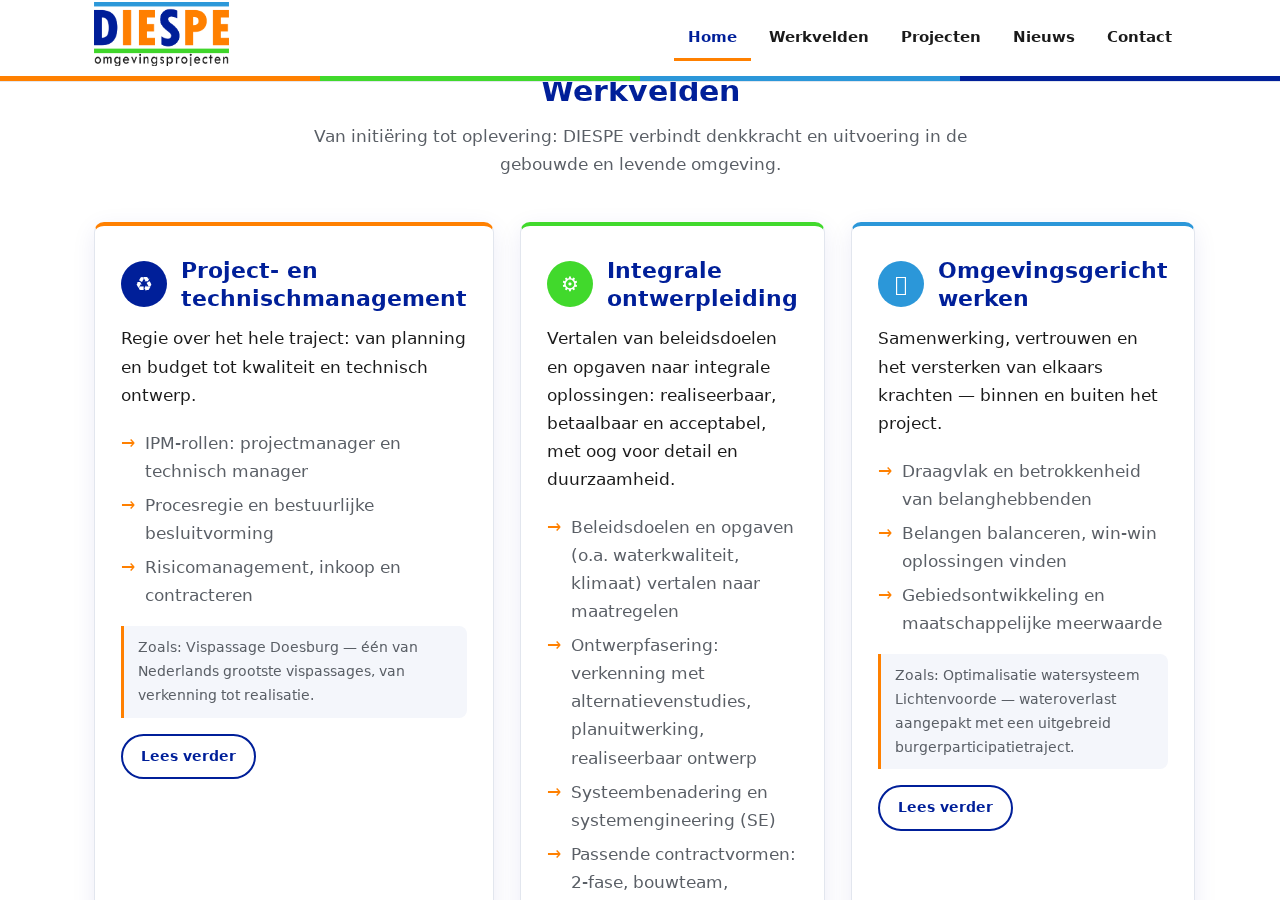
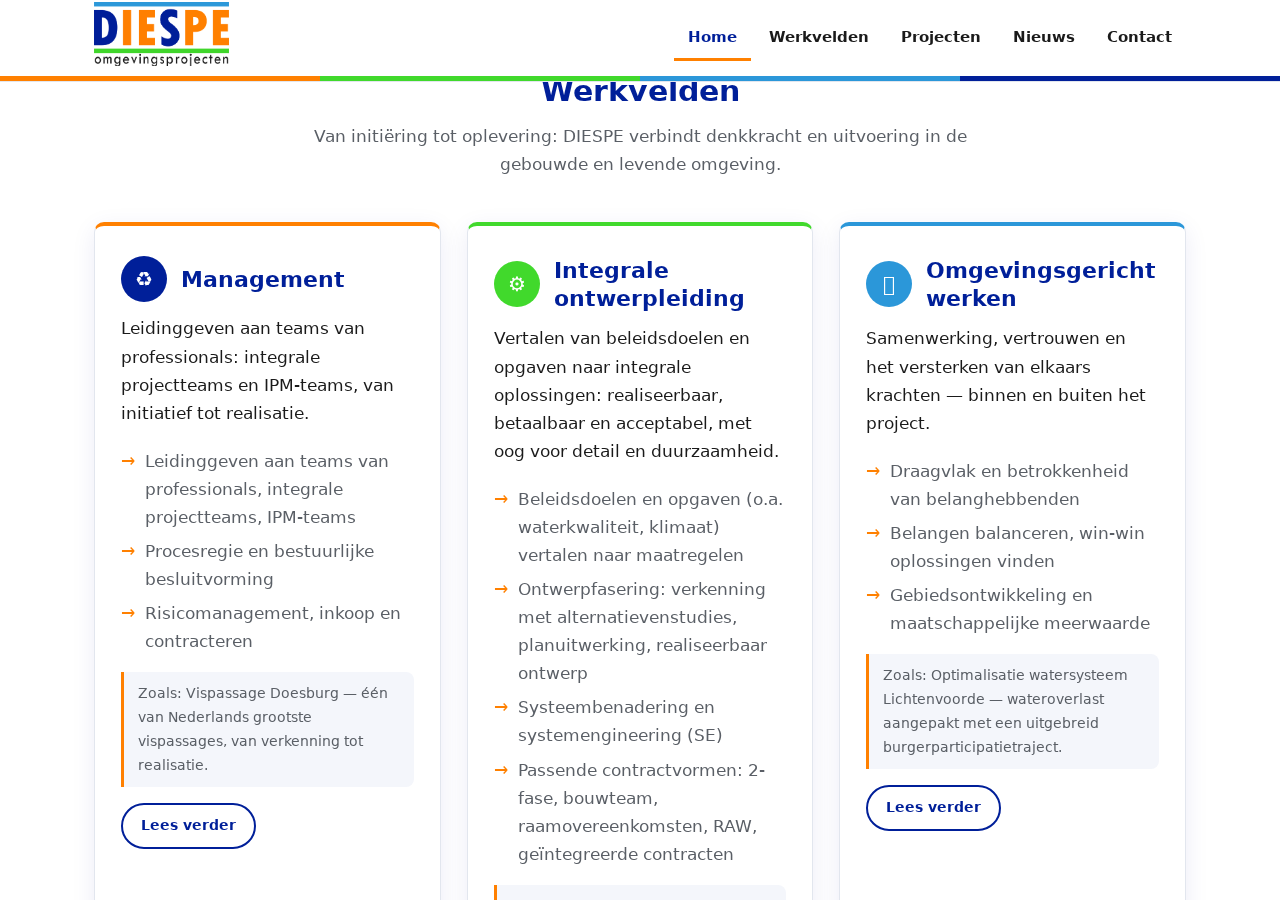
Werkveld 1 hernoemen naar Management met leidinggeven-teams als inhoud

diff --git a/preview/index.html b/preview/index.html
@@ -69,10 +69,10 @@
     <p class="section-intro">Van initi&euml;ring tot oplevering: DIESPE verbindt denkkracht en uitvoering in de gebouwde en levende omgeving.</p>
     <div class="grid-3">
       <div class="card">
-        <div class="card-header"><span class="card-icon" aria-hidden="true">&#9851;</span><h3>Project- en technischmanagement</h3></div>
-        <p>Regie over het hele traject: van planning en budget tot kwaliteit en technisch ontwerp.</p>
+        <div class="card-header"><span class="card-icon" aria-hidden="true">&#9851;</span><h3>Management</h3></div>
+        <p>Leidinggeven aan teams van professionals: integrale projectteams en IPM-teams, van initiatief tot realisatie.</p>
         <ul>
-          <li>IPM-rollen: projectmanager en technisch manager</li>
+          <li>Leidinggeven aan teams van professionals, integrale projectteams, IPM-teams</li>
           <li>Procesregie en bestuurlijke besluitvorming</li>
           <li>Risicomanagement, inkoop en contracteren</li>
         </ul>

diff --git a/front-page.php b/front-page.php
@@ -19,9 +19,9 @@ $werkvelden_intro = diespe_home_text( 'werkvelden_intro', __( 'Van initiëring t
 $kaarten = array(
 	array(
 		'icon'    => '&#9851;',
-		'titel'   => diespe_home_text( 'kaart1_titel', __( 'Project- en technischmanagement', 'diespe' ) ),
-		'tekst'   => diespe_home_text( 'kaart1_tekst', __( 'Regie over het hele traject: van planning en budget tot kwaliteit en technisch ontwerp.', 'diespe' ) ),
-		'punten'  => diespe_home_text( 'kaart1_punten', __( "IPM-rollen: projectmanager en technisch manager\nProcesregie en bestuurlijke besluitvorming\nRisicomanagement, inkoop en contracteren", 'diespe' ) ),
+		'titel'   => diespe_home_text( 'kaart1_titel', __( 'Management', 'diespe' ) ),
+		'tekst'   => diespe_home_text( 'kaart1_tekst', __( 'Leidinggeven aan teams van professionals: integrale projectteams en IPM-teams, van initiatief tot realisatie.', 'diespe' ) ),
+		'punten'  => diespe_home_text( 'kaart1_punten', __( "Leidinggeven aan teams van professionals, integrale projectteams, IPM-teams\nProcesregie en bestuurlijke besluitvorming\nRisicomanagement, inkoop en contracteren", 'diespe' ) ),
 		'voorbeeld' => diespe_home_text( 'kaart1_voorbeeld', __( 'Zoals: Vispassage Doesburg — één van Nederlands grootste vispassages, van verkenning tot realisatie.', 'diespe' ) ),
 	),
 	array(
